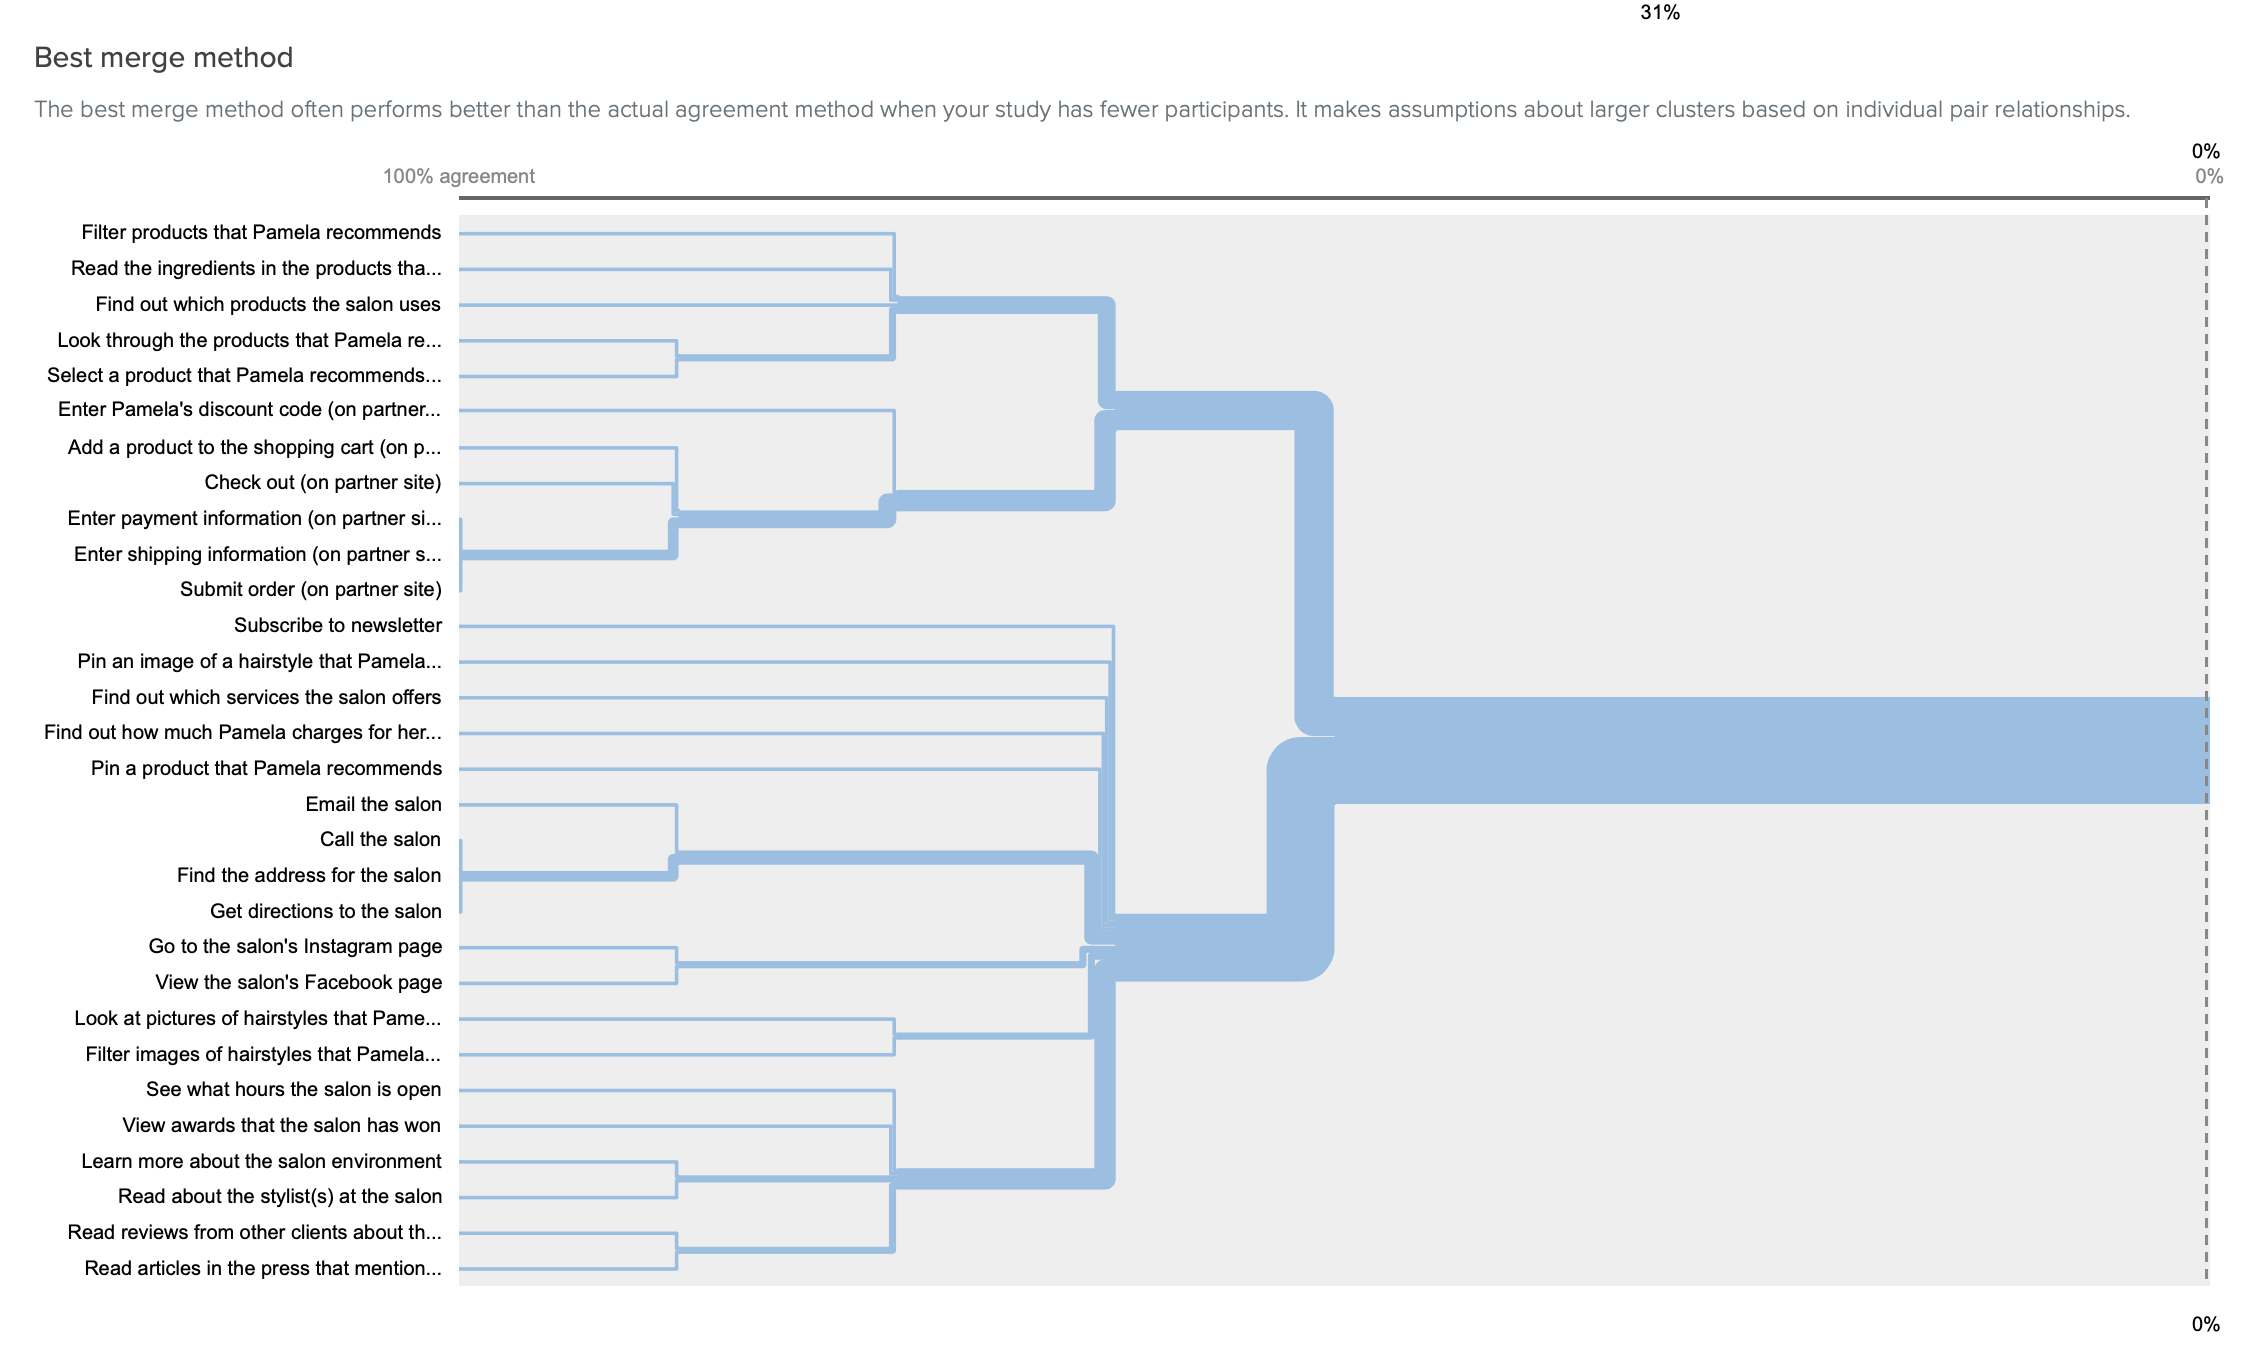
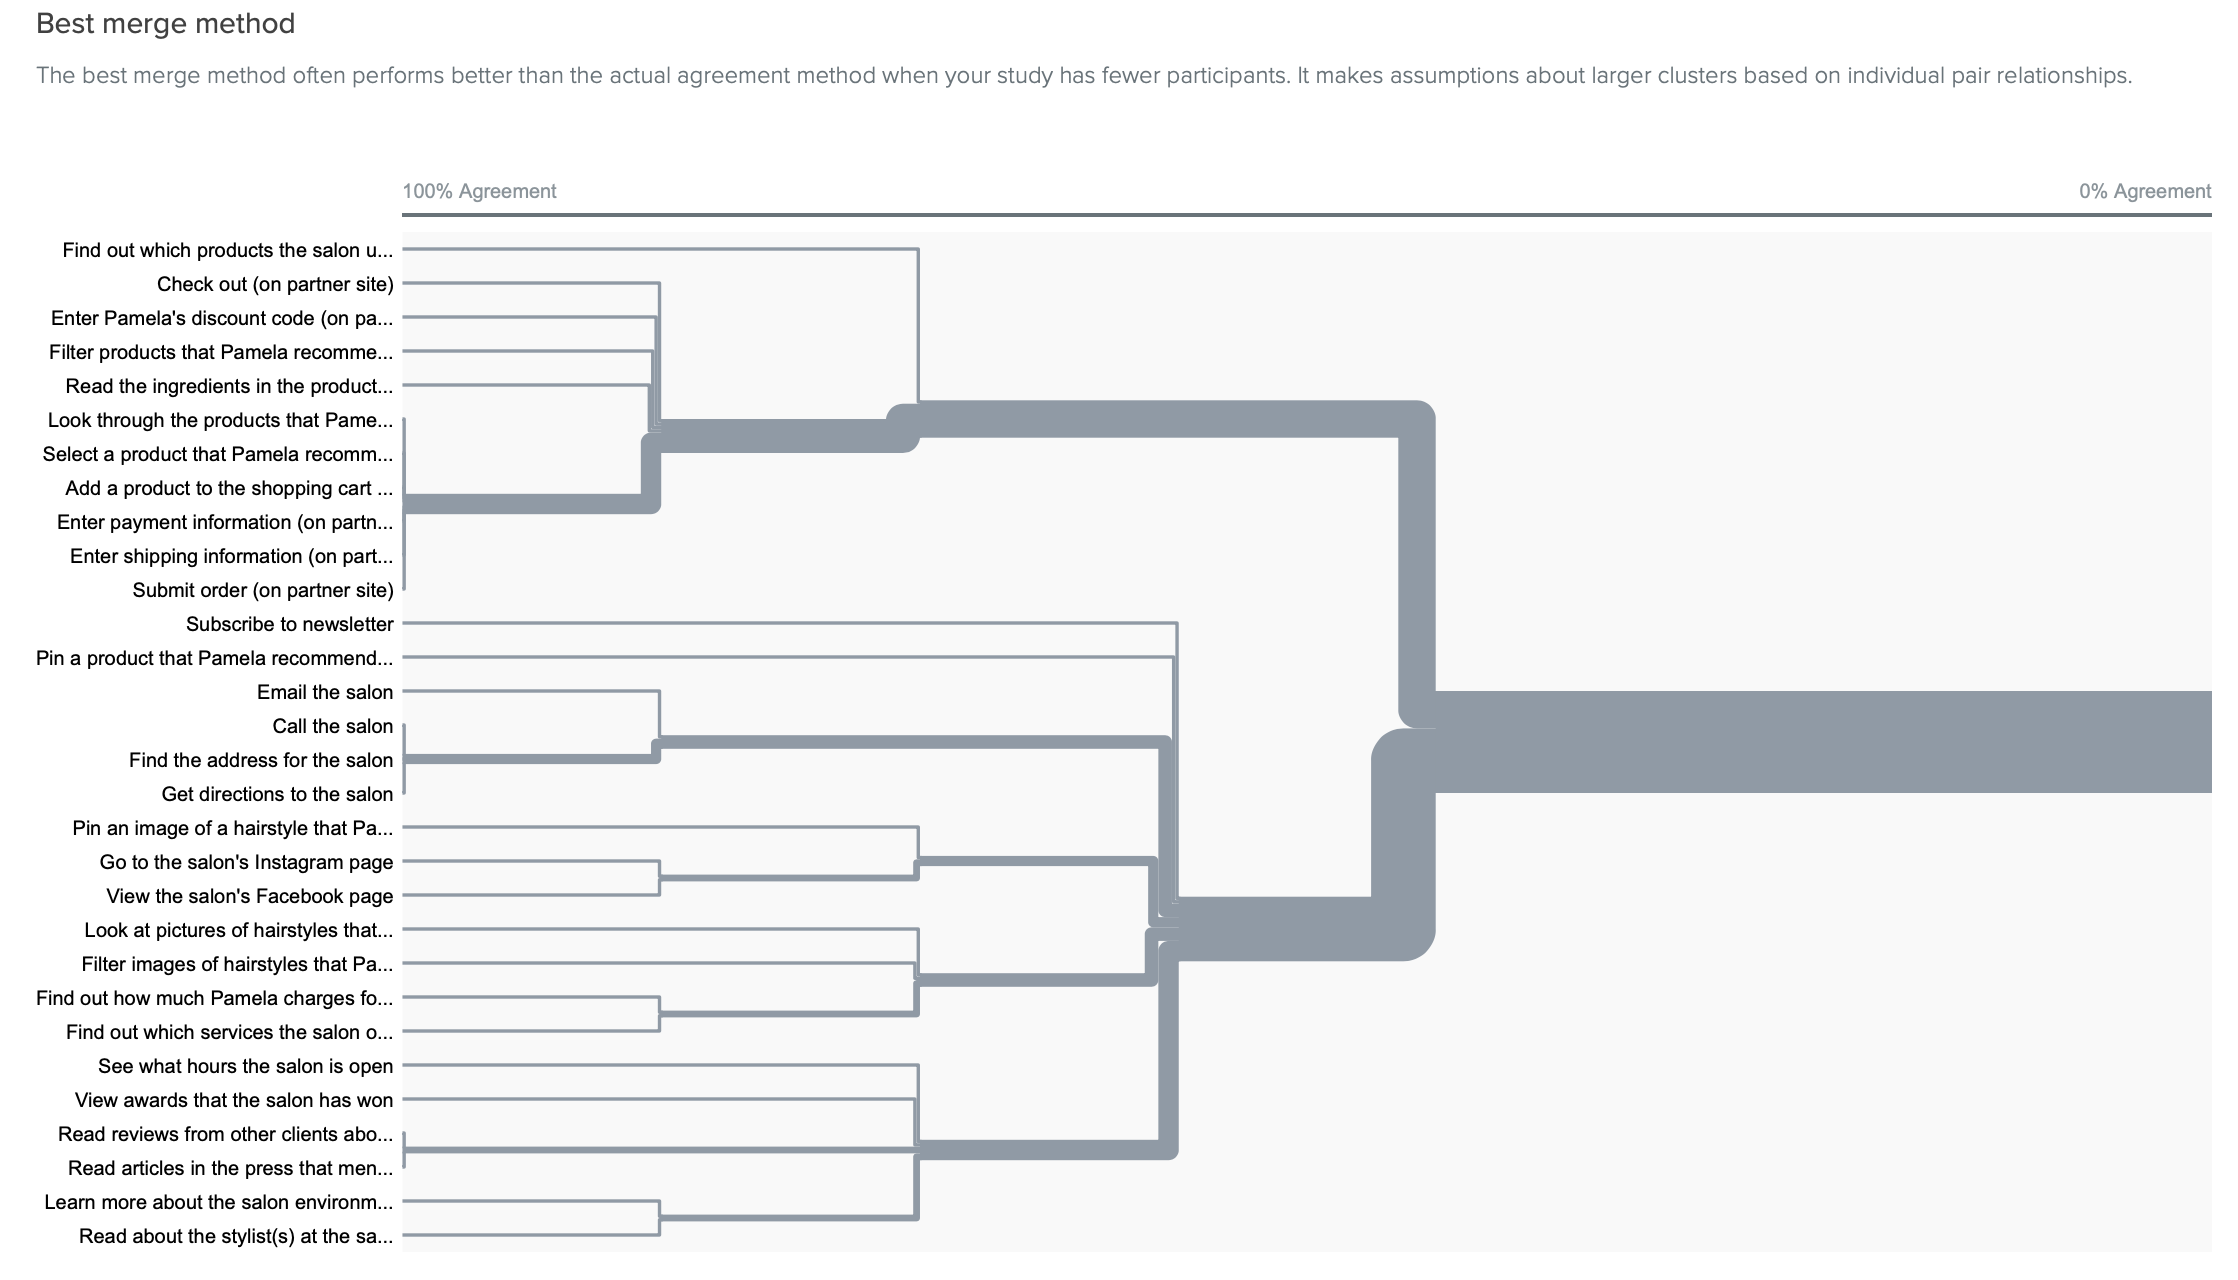
ct

Changed region(s): [[0.0, 0.125, 1.0, 0.9688], [0.0, 0.0, 0.9558, 0.0938], [0.9249, 0.0938, 0.9866, 0.1875]]

diff --git a/projectC.html b/projectC.html
@@ -575,6 +575,50 @@ featuredTools: "Sketch; Adobe Photoshop and Invision; Google Forms, Sheets, Docs
         <p>Before designing the site map for the Pamela Simpson Beauty website, I wanted to learn more about the mental models of my users. Knowing how the users think about and organize the information on the site will help me ensure that the information architecture that I create will provide the users with a good experience.</p>
         <p>I conducted the card sort activity remotely online, using Optimal Workshop’s tool, OptimalSort. I created a set of 30 cards, and then recruited participants who represented each of my three personas. In total, I got results from seven participants. </p>
         <p>After the participants finished the card sort activity, I took a look at the results, keeping an eye out for trends and outliers. I standardized the categories first, and then examined the Dendrogram and Standardization Grid that Optimal Workshop provided to me. </p>
+        
+        <!-- DENDRO & STANDARD GRID GRAPHICS -->
+        <a data-open="dendro">
+            <figure class="float-center">
+                <img src="images/project3/informationArchitecture/dendrogram_standardizationGrid.png" alt="The dendrogram and standardization grid that I created for this project">
+                <figcaption>The dendrogram and standardization grid that I created for this project</figcaption>
+            </figure>
+        </a>
+        <!-- MODAL -->
+        <div class="large reveal" id="dendro" data-reveal>
+            <figure class="card">
+                <iframe src="https://drive.google.com/file/d/16UD-v2lpaGbOsSLfS6ctVEI4HRsVcNvs/preview" width="95%" height="480"></iframe>
+                <div class="card-section">
+                    <figcaption class="coralText">Dendrogram</figcaption>
+                </div>
+            </figure>  
+            <nav class="cell">
+                <div class="grid-x align-center align-middle">
+                    <p class="text-center imageNumber">IMAGE<br>1 of 2</p>
+                    <a class="button" data-open="standardGrid">NEXT</a>
+                </div>
+            </nav>
+            <button class="close-button" data-close aria-label="Close reveal" type="button">
+                <span aria-hidden="true">&times;</span>
+            </button>
+        </div>
+        <div class="large reveal" id="standardGrid" data-reveal>
+            <figure class="card">
+                <iframe src="https://drive.google.com/file/d/1jAAA6Qvmfb62LvAl3-rzoksp4Cp3ihe_/preview" width="95%" height="480"></iframe>                
+                <div class="card-section">
+                    <figcaption class="coralText">Standardization Grid</figcaption>
+                </div>
+            </figure>  
+            <nav class="cell">
+                <div class="grid-x align-center align-middle">
+                    <a class="button back" data-open="dendro">PREVIOUS</a>
+                    <p class="text-center imageNumber">IMAGE<br>2 of 2</p>
+                </div>
+            </nav>
+            <button class="close-button" data-close aria-label="Close reveal" type="button">
+                <span aria-hidden="true">&times;</span>
+            </button>
+        </div>
+        
         <p>Next, I summarized and analyzed my findings in an <a href="https://docs.google.com/document/d/1De8Q37Q4e0mOBLU1qWPSemNwncXqMg6DpcE4g2XF-dM/edit?usp=sharing" class="aquaText boldText">insight report</a>. Here are some of my findings:</p>
         <ol class="indentText">
             <li>Two participants grouped all of the cards related to social media into a separate category. </li>
@@ -582,6 +626,26 @@ featuredTools: "Sketch; Adobe Photoshop and Invision; Google Forms, Sheets, Docs
             <li>Four participants created a category that corresponded with an About section, with an agreement of 52%.</li>
         </ol>
         <p>Finally, I created a sitemap for the website based on my findings from the card sort analysis. In the open card sort activity, the users created categories for Home, Gallery, Services, Products, and Contact Us. (The full details of my reasoning behind the sitemap are available on the <a href="https://docs.google.com/document/d/1De8Q37Q4e0mOBLU1qWPSemNwncXqMg6DpcE4g2XF-dM/edit?usp=sharing" class="aquaText boldText">insight report</a>.)</p>
+        
+        <!-- USER STORIES GRAPHICS -->
+        <a data-open="siteMap">
+            <figure class="float-center">
+                <img src="images/project3/informationArchitecture/siteMap.png" alt="The site map that I created for this project">
+                <figcaption>The site map that I created for this project</figcaption>
+            </figure>
+        </a>
+        <!-- MODAL -->
+        <div class="large reveal" id="userStories" data-reveal>
+            <figure class="card">
+                <iframe src="https://drive.google.com/file/d/1UCp65-Q1h4Rp-EuN2a9KFSVp6IYJqsre/preview" width="95%" height="480"></iframe>               
+                <div class="card-section">
+                    <figcaption class="coralText">Site map</figcaption>
+                </div>
+            </figure>       
+            <button class="close-button" data-close aria-label="Close reveal" type="button">
+                <span aria-hidden="true">&times;</span>
+            </button>
+        </div>
         
     </div>
     
